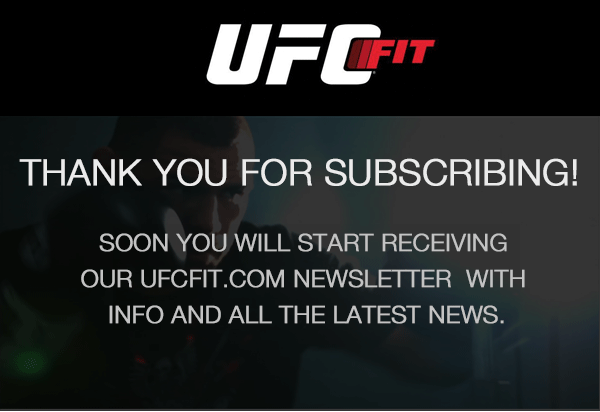
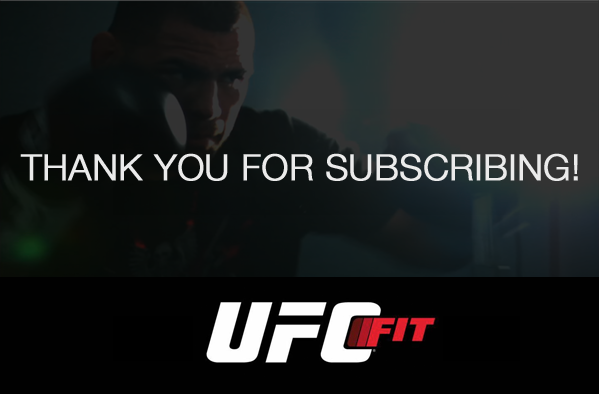
last minute landing page changes

diff --git a/app/assets/javascripts/rotate_images.js b/app/assets/javascripts/rotate_images.js
@@ -15,7 +15,7 @@ if (typeof Hadean.Welcome.rotateImages == "undefined") {
         currentIndex : 0,
         initialize      : function( ) {
           // If the user clicks add new variant button
-          Hadean.Welcome.rotateImages.images = ['/assets/landing_page/landing_page_opt_rob1.jpg','/assets/landing_page/landing_page_opt_rob2.jpg','/assets/landing_page/landing_page_opt_rob4.jpg','/assets/landing_page/landing_page_opt2.jpg']
+          Hadean.Welcome.rotateImages.images = ['/assets/landing_page/landing_page_opt_rob1.jpg','/assets/landing_page/landing_page_opt_rob8.jpg','/assets/landing_page/landing_page_opt_rob4.jpg','/assets/landing_page/landing_page_opt2.jpg']
           Hadean.Welcome.rotateImages.next();
         },
         setNext : function(){
